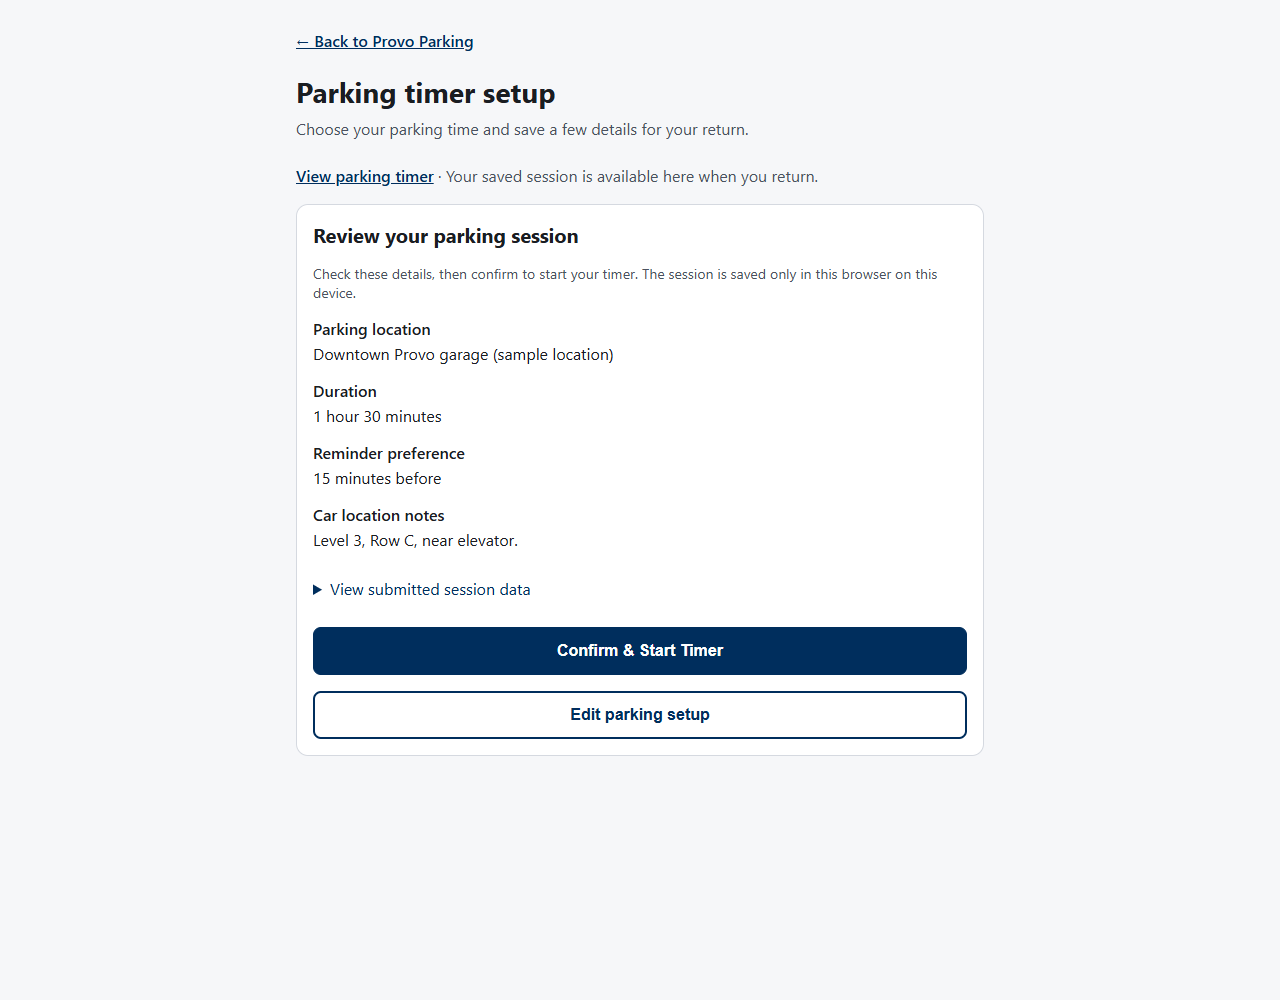
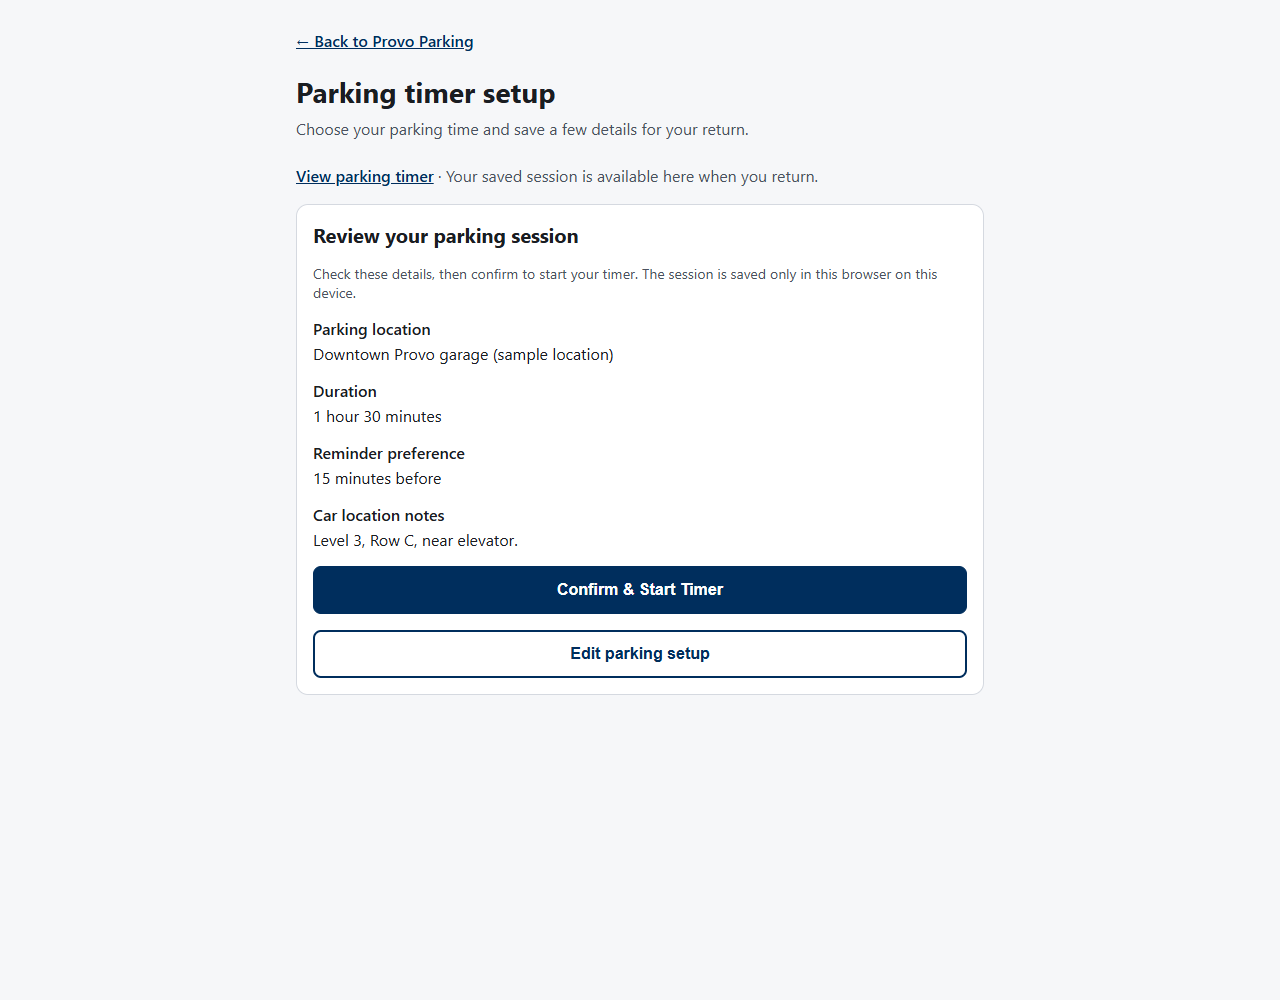
Simplify parking setup reminder and review copy

Changed region(s): [[0.2188, 0.558, 0.7812, 0.744]]

diff --git a/parking-setup.html b/parking-setup.html
@@ -27,14 +27,14 @@
         </div>
         <div>
           <label for="setup-reminder">Reminder preference</label>
-          <select id="setup-reminder" required aria-describedby="setup-reminder-hint">
+          <select id="setup-reminder" required>
             <option value="0">No reminder</option>
             <option value="5">5 minutes before</option>
             <option value="10" selected>10 minutes before</option>
             <option value="15">15 minutes before</option>
             <option value="30">30 minutes before</option>
           </select>
-          <p class="hint" id="setup-reminder-hint">Choose a reminder shorter than your parking duration.</p>
+          <p class="sr-text" id="setup-reminder-hint" role="status"></p>
         </div>
       </div>
       <p class="hint">Reminders appear on the timer page while it is open. Background notifications are not supported.</p>
@@ -51,10 +51,6 @@
       <h2 id="setup-confirmation-title" tabindex="-1">Review your parking session</h2>
       <p class="hint">Check these details, then confirm to start your timer. The session is saved only in this browser on this device.</p>
       <dl id="setup-summary"></dl>
-      <details>
-        <summary>View submitted session data</summary>
-        <pre id="setup-payload"></pre>
-      </details>
       <p id="setup-confirm-error" class="setup-error" role="alert" hidden></p>
       <button type="button" class="primary" id="setup-confirm-start" hidden>Confirm &amp; Start Timer</button>
       <button type="button" class="secondary" id="setup-edit">Edit parking setup</button>

diff --git a/js/pages/parking-setup.js b/js/pages/parking-setup.js
@@ -27,9 +27,9 @@ export function initParkingSetup(root, { location = SAMPLE_LOCATION, onStart = (
     for (const option of reminder.options) option.disabled = Number(option.value) >= Number(duration.value);
     if (Number(reminder.value) >= Number(duration.value)) {
       reminder.value = "0";
-      find("reminder-hint").textContent = "Reminder changed to no reminder. Choose a time shorter than your parking duration.";
+      find("reminder-hint").textContent = "Reminder changed to no reminder.";
     } else {
-      find("reminder-hint").textContent = "Choose a reminder shorter than your parking duration.";
+      find("reminder-hint").textContent = "";
     }
   }
   find("reminder-hint").setAttribute("aria-live", "polite");
@@ -73,7 +73,6 @@ export function initParkingSetup(root, { location = SAMPLE_LOCATION, onStart = (
       description.textContent = value;
       summary.append(term, description);
     }
-    find("payload").textContent = JSON.stringify(payload, null, 2);
     form.hidden = true;
     confirmation.hidden = false;
     find("confirmation-title").focus();

diff --git a/css/styles.css b/css/styles.css
@@ -85,9 +85,6 @@ select:focus-visible, input:focus-visible, .primary:focus-visible, .secondary:fo
 .setup-confirmation dt { font-weight: 600; }
 .setup-confirmation dd { margin: 4px 0 16px; overflow-wrap: anywhere; }
 .setup-confirmation dd:last-child { margin-bottom: 0; }
-.setup-confirmation summary { cursor: pointer; color: var(--brand); padding: 12px 0; }
-.setup-confirmation summary:focus-visible { outline: 3px solid #2b6cb0; outline-offset: 2px; }
-.setup-confirmation pre { white-space: pre-wrap; overflow-wrap: anywhere; font-size: .85rem; }
 @media (max-width: 520px) { .setup-form .row { grid-template-columns: 1fr; } }
 /* P6 active timer: a single quiet layout with the clock as the primary element. */
 .parking-timer #timer-session { padding: 20px 0; }

diff --git a/docs/parking-timer-setup.md b/docs/parking-timer-setup.md
@@ -2,7 +2,7 @@
 
 Open `/parking-setup.html` using a local HTTP server (for example `npm start`). No `config.js`, Supabase, login, Maps API, or active timer is needed. The existing My car screen links to this demo; its database-backed timer is unchanged. The standalone page has a back link rather than another global navigation bar.
 
-Submitting the form shows a review and JSON payload. P6 adds a separate **Confirm & Start Timer** action: only this final action creates and saves a session, then opens `parking-timer.html`. Leaving/reloading the unconfirmed form resets the form. Confirmed sessions survive a refresh and can be reopened through **View parking timer** in the same browser. No database, map, background notifications, or parking-rule enforcement is involved. Check posted parking rules; the chosen duration does not grant permission to park.
+Submitting the form shows a readable review of the parking details; the structured payload is available to integration callbacks rather than displayed in the UI. P6 adds a separate **Confirm & Start Timer** action: only this final action creates and saves a session, then opens `parking-timer.html`. Leaving/reloading the unconfirmed form resets the form. Confirmed sessions survive a refresh and can be reopened through **View parking timer** in the same browser. No database, map, background notifications, or parking-rule enforcement is involved. Check posted parking rules; the chosen duration does not grant permission to park.
 
 ## Integration
 
@@ -51,7 +51,7 @@ No map code is implemented. Supply a nonempty string `id` (convert numeric datab
 }
 ```
 
-Durations are integers 30…720 in 30-minute increments (default 120). Reminder values are 0 (none), 5, 10 (default), 15, or 30, and must be strictly shorter than the duration. Shortening the duration disables incompatible options and resets an incompatible selection to no reminder, with an announced explanation. Notes are optional, trimmed text, maximum 200 characters. The payload deliberately contains no timer timestamps, database session ID, or user identity: the future active timer owns these.
+Durations are integers 30…720 in 30-minute increments (default 120). Reminder values are 0 (none), 5, 10 (default), 15, or 30, and must be strictly shorter than the duration. Shortening the duration disables incompatible options and resets an incompatible selection to no reminder, with a brief screen-reader announcement. No persistent reminder helper text is shown. Notes are optional, trimmed text, maximum 200 characters. The payload deliberately contains no timer timestamps, database session ID, or user identity: the future active timer owns these.
 
 Both optional callbacks can return a promise. `onStart` remains the review-stage hook for backward compatibility: resolution shows the review; rejection preserves the form. `onConfirm` is the final submission hook added by P6; the confirmation button is visible only when this callback is supplied. It receives a copy of the reviewed payload. Controls are disabled while callbacks are pending, and rejection keeps the relevant step available for retry. Callback mutations cannot change the review snapshot. `js/parking-setup.js` connects only `onConfirm` to local persistence and navigation, so the countdown begins at final confirmation rather than at form submission.
 
